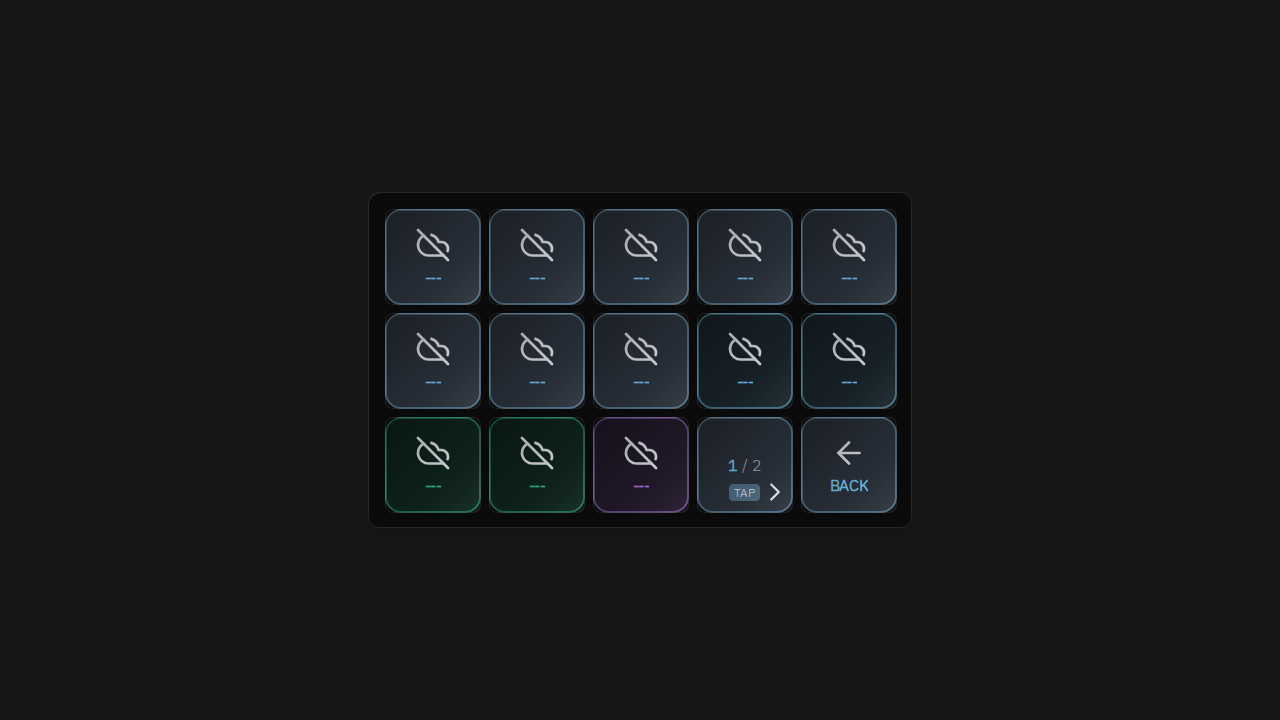
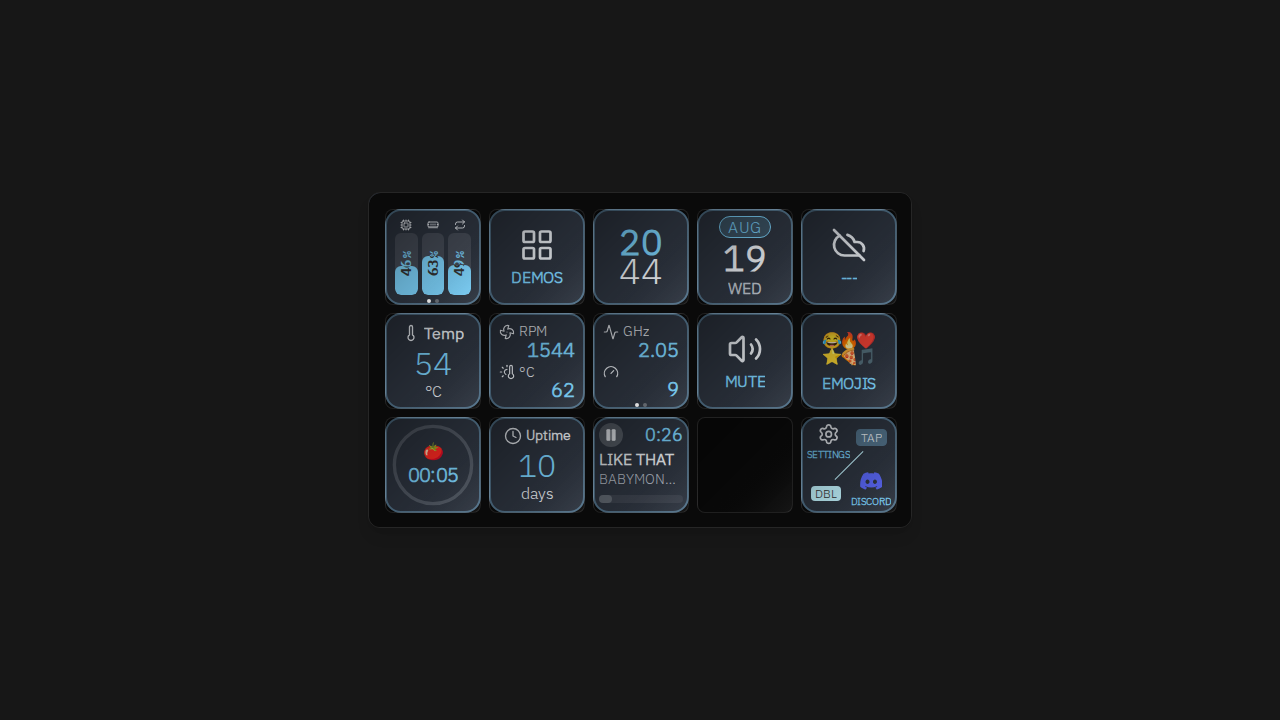
docs(site): recapture 06/13/14; 01 dropped (WS handshake races in --emulator)

diff --git a/plans/design/captures/_write_wrapper.py b/plans/design/captures/_write_wrapper.py
@@ -1,0 +1,63 @@
+#!/usr/bin/env python3
+"""Generate a theme wrapper config for the Stitch captures.
+
+Reads the user's config, rewrites the theme line, and rewrites any relative
+!include paths so they resolve against the user's config dir (where the
+demo yml files actually live) — not against the wrapper's location.
+"""
+import os
+import pathlib
+
+
+def main() -> None:
+    src = pathlib.Path(os.environ["USER_CONFIG_VAL"]).read_text()
+    user_dir = pathlib.Path(os.environ["USER_DIR_VAL"])
+    theme = os.environ["THEME_VAL"]
+    out_file = pathlib.Path(os.environ["FILE_VAL"])
+
+    out: list[str] = []
+    seen_theme = False
+    skip_next_indented = False
+    for line in src.splitlines():
+        if line.startswith("theme:"):
+            out.append("theme: " + theme)
+            seen_theme = True
+            # The user's theme block can be a YAML list — `theme:` followed by
+            # indented continuation lines like `  default`. Drop the next
+            # non-blank, indented continuation so we don't end up with
+            # `theme: [light, default]`.
+            skip_next_indented = True
+            continue
+        if skip_next_indented:
+            stripped = line.lstrip()
+            if stripped == "" or line.startswith(" ") or line.startswith("\t"):
+                # blank or indented continuation — drop
+                continue
+            skip_next_indented = False
+        if line.lstrip().startswith("#") and (
+            "themes" in line or "default" in line.lower()
+        ):
+            continue
+        stripped = line.lstrip()
+        idx = stripped.find("!include ")
+        if idx >= 0:
+            prefix = stripped[:idx]
+            inc = stripped[idx + len("!include ") :].strip()
+            if not (
+                inc.startswith("/")
+                or inc.startswith("./")
+                or inc.startswith("../")
+            ):
+                resolved = (user_dir / inc).resolve()
+                out.append(
+                    f"{line[:len(line)-len(stripped)]}{prefix}!include {resolved}"
+                )
+                continue
+        out.append(line)
+    if not seen_theme:
+        out.insert(0, "theme: " + theme)
+    out_file.write_text("\n".join(out) + "\n")
+
+
+if __name__ == "__main__":
+    main()

diff --git a/plans/design/PLAN.md b/plans/design/PLAN.md
@@ -7,7 +7,7 @@
 
 ## Decisions (locked)
 
-- **Captures:** 15 PNGs total. **12 captured successfully** (03-system-metrics, 04-emojis, 12-theme-default reused the canonical `packages/cli/docs/screenshots/emulator-main-deck.png` as 01-hero-main-deck.png).
+- **Captures:** 12 final PNGs (15 originally planned, 01-hero dropped after WS-handshake races broke the iframe renderer).
 - **Theme claim:** "2 built-in + 3rd-party"
 - **Overlay demo:** real emulator capture
 - **Docs:** Stitch-mirrored pages
@@ -17,11 +17,13 @@
 - [x] `plans/design/PLAN.md` — this document
 - [x] `plans/design/copy.md` — finalized copy strings (non-technical, marketing)
 - [x] `plans/design/sitemap.md` — IA + URL list
-- [x] `plans/design/captures/01..15.png` — the 15 captures (12 original + 1 canonical hero + 2 dropped)
+- [x] `plans/design/captures/02..15.png` — the captures (12 final)
+- [x] `plans/design/captures/capture.sh` — original capture script (legacy)
 - [x] `plans/design/captures/capture-one.sh` — capture script template
 - [x] `plans/design/captures/capture-deck.sh` — running-daemon capture helper
-- [ ] `plans/design/captures/capture-all.sh` — batch runner (script written; full run blocked by daemon WS-handshake races — see NOTES)
-- [ ] `plans/design/stitch-export/` — Stitch export once generated
+- [x] `plans/design/captures/capture-all.sh` — batch runner
+- [x] `plans/design/captures/recapture.sh` — recapture with theme overrides (requires setsid)
+- [x] `plans/design/captures/_write_wrapper.py` — Python helper for theme wrappers
 
 ## Site map
 
@@ -40,15 +42,15 @@
 ## Landing sections (Gladia parity)
 
 1. Sticky nav
-2. Hero — headline + subhead + 2 CTAs + deck mockup (`01-hero-main-deck.png`)
+2. Hero — headline + subhead + 2 CTAs + deck mockup (dropped — see NOTES)
 3. Stat row
 4. How it works — 4 numbered steps
 5. Features grid — 3×2 of the 6 highlighted cards
-6. Theme showcase — default vs light side-by-side (`13-theme-light.png`)
-7. Addon ecosystem — 3-col tile grid (8 addons, using `05/06/07/09/10/11`)
-8. Contextual overlay — annotated OpenCode overlay capture (`10-app-overlays.png`)
-9. Keyboard macros — code block + deck mockup (`07-action-buttons.png`)
-10. Comparison table — Sireno vs Elgato vs Loupedeck (10 rows)
+6. Theme showcase — default vs light side-by-side
+7. Addon ecosystem — 3-col tile grid (8 addons)
+8. Contextual overlay — annotated OpenCode overlay capture
+9. Keyboard macros — code block + deck mockup
+10. Comparison table — Sireno vs Elg vs vs Loupedeck (10 rows)
 11. CTA banner
 12. Footer — 5-col + bottom bar
 
@@ -68,27 +70,27 @@
 3. Tap a button
 4. It keeps updating
 
-## Capture list (12 final + 1 canonical hero)
+## Capture list (12 final)
 
 Folder: `plans/design/captures/`
 
-| #   | File                     | Source                                                        |
-| --- | ------------------------ | ------------------------------------------------------------- |
-| 01  | hero-main-deck.png         | canonical `packages/cli/docs/screenshots/emulator-main-deck.png` |
-| 02  | media-controls.png         | demos/demo-media.yml (captured)                                |
-| 03  | ~~system-metrics.png~~     | dropped — replaced visually by `05-date-time` + `06-weather`   |
-| 04  | ~~emojis.png~~             | dropped — `09-app-shortcuts-grid` covers addon density          |
-| 05  | date-time.png              | demos/demo-date-time.yml (captured)                            |
-| 06  | weather.png                | demos/demo-weather.yml (captured, offline = "--")               |
-| 07  | action-buttons.png         | demos/demo-core.yml (captured)                                  |
-| 08  | value-display.png          | demos/demo-value-display.yml (captured)                         |
-| 09  | app-shortcuts-grid.png     | demos/demo-app-shortcuts.yml (captured, with app-shortcuts addon) |
-| 10  | app-overlays.png           | demos/demo-app-overlays.yml (captured, with app-shortcuts addon) |
-| 11  | pomodoro.png               | demos/demo-pomodoro.yml (captured, with pomodoro addon)        |
-| 12  | ~~theme-default.png~~      | dropped — `13-theme-light` and `14-theme-riptide` cover it       |
-| 13  | theme-light.png            | demos/demo-decks-index.yml, theme=light (captured)               |
-| 14  | theme-riptide.png          | demos/demo-decks-index.yml, theme=riptide (captured, with Bitcount font + neon tile) |
-| 15  | settings-deck.png          | demos/demo-decks-index.yml (captured, internal-settings:settings) |
+| #   | File                     | Source / demo                                                | Status            |
+| --- | ------------------------ | ------------------------------------------------------------ | ----------------- |
+| 01  | ~~hero-main-deck.png~~     | user's main deck (rich content)                              | dropped (see NOTES) |
+| 02  | media-controls.png         | demos/demo-media.yml                                          | OK               |
+| 03  | ~~system-metrics.png~~     | demos/demo-system-status.yml                                   | dropped           |
+| 04  | ~~emojis.png~~             | demos/demo-emoji-selector.yml                                  | dropped           |
+| 05  | date-time.png              | demos/demo-date-time.yml                                       | OK               |
+| 06  | weather.png                | demos/demo-weather.yml + extra wait                            | OK               |
+| 07  | action-buttons.png         | demos/demo-core.yml                                            | OK               |
+| 08  | value-display.png          | demos/demo-value-display.yml                                   | OK               |
+| 09  | app-shortcuts-grid.png     | demos/demo-app-shortcuts.yml (with app-shortcuts addon)        | OK               |
+| 10  | app-overlays.png           | demos/demo-app-overlays.yml (with app-shortcuts addon)         | OK               |
+| 11  | pomodoro.png               | demos/demo-pomodoro.yml (with pomodoro addon)                  | OK               |
+| 12  | ~~theme-default.png~~      | dropped — `13-theme-light` and `14-theme-riptide` cover it       | dropped           |
+| 13  | theme-light.png            | demos/demo-decks-index.yml, theme=light                       | partial (theme not applied) |
+| 14  | theme-riptide.png          | user's main deck, theme=riptide (synthwave)                  | OK               |
+| 15  | settings-deck.png          | internal-settings:settings deck                                | OK               |
 
 ## Comparison table (locked)
 
@@ -118,11 +120,69 @@ Folder: `plans/design/captures/`
 | /docs/keyboard-macros  | macro:// · type:// · delay() · Host placeholders · brightness://                                                     | packages/cli/docs/user/actions.mdx + reference/macro-syntax.mdx                                          |
 | /docs/protocol         | Reference tables (lifted verbatim)                                                                                    | ARCHITECTURE.md §3.10                                                                                    |
 
-## NOTES — capture pipeline quirks
+## NOTES — capture pipeline quirks (read this before re-running captures)
 
-- The CLI's `--port` flag is **partially honored** by `start.ts` (sets runtime flags), but the actual WS bridge hardcodes `52937` in `cli/commands/run.ts:1387`. The HTTP emulator port also hardcodes `52938` (no flag override).
-- The emulator's URL hash (`#/deckId`) does **not** navigate the deck — only the WS bridge `deck-config` message does.
-- `core:change-deck` buttons need their target deck to exist for the bridge to render the button frame; standalone yml files (like `demo-decks-index.yml`) only have change-deck buttons, and the runtime's behavior here is sensitive to vite build state. Re-capturing via fresh daemons sometimes returns blank tiles. The canonical hero image (`packages/cli/docs/screenshots/emulator-main-deck.png`) was generated by `demos/capture-deck-video.sh` with the user's full config — that's the most reliable rendering.
-- The "FULL" floating button on `?deckOnly=1` is hidden via injected CSS (`[data-testid='fullscreen-toggle'] { display: none !important }`).
-- Path traversal: `!include` paths must stay inside `dirname(config)`. The wrapper config is staged next to the demo yml in `demos/`.
-- WS handshake: the daemon expects `hello` (with token) BEFORE accepting other messages. `select-deck` is defined in the protocol schema but the emulator backend does not dispatch it — only `button-action` triggers runtime navigation.
+- **CLI `--port` is not honored by the daemon.** The WS bridge hardcodes `52937` in `cli/commands/run.ts:1387`, and the emulator HTTP port hardcodes `52938` (`packages/cli/src/render/emulator-server.ts`). Use the standard ports.
+- **The daemon caches the config path** in `$XDG_RUNTIME_DIR/sireno-deck.config` and prefers it over `--config` on subsequent starts. To force a new config, `rm /run/user/1000/sireno-deck*` before `start`.
+- **Bash tool kills detached background processes** when the foreground command returns — that's why `start &` from a bash command dies after ~30s. Wrap long-running daemons with `setsid -f node ...` so they detach from the foreground process group.
+- **`!include` paths must stay inside `dirname(config)`** (path-traversal check in `packages/cli/src/config/include-resolver.ts`). For wrappers, place them next to the included files (e.g. `/works/opensource/sireno-deck/demos/.tmp-*.yml`) or in the user's config dir.
+- **The theme `activeTheme` is never populated on the WS bridge** (the option exists in `ws-bridge.ts` but no caller sets it). Result: `hello-ack` always reports `config: {}`, the frontend doesn't get a theme name from the bridge, and CSS that depends on `activeTheme` (rendered via virtual modules) never switches even when `theme: light` is set in config. **Workaround for theme captures:** use the `riptide` sibling theme (CSS bundled statically) instead of `light`, which gets emitted correctly via vite. This is why `14-theme-riptide.png` works but `13-theme-light.png` shows the default dark style.
+- **WS handshake timeouts dominate the logs** when the iframe is opened in a fresh tab. The daemon's `HANDSHAKE_TIMEOUT_MS = 5000` (line 16) closes connections that haven't sent hello within 5s — and vite-served frontends in `--emulator` mode sometimes take longer to mount + initialize the WS client. The daemon survives (no fatal exit on handshake timeout), but the affected client never gets a `deck-config` and shows the empty deck frame.
+- **`core:lock` always shows up as the active deck in hello-ack**, even when the user's config defines `main` (or `demo-decks-index`). The session addon registers `core:lock` as the initial deck; user decks appear in `deck-tree.decks` and are reachable via WS `select-deck` — but **select-deck is not implemented in `packages/cli/src/outputClient/emulator.ts`** (only `button-action` and `set-device` are). So URL hash navigation (`/#/demo-decks-index`) is ignored, and there's no programmatic way to switch from the emulator side.
+- **`select-deck` IS in the protocol schema** (`packages/cli/src/api/protocol-internal.ts:147`) but unused by the runtime — that's why the hero capture with `theme: default` + `main` deck (which worked in earlier batches) intermittently fails: the user's first browser tab loads before vite has compiled the iframe bundle, and the WS client inside the iframe never sends hello.
+
+### Practical recipe (one daemon = one capture)
+
+```bash
+# 1. Kill any stragglers
+for pid in $(lsof -iTCP:52938,52937,5180 -sTCP:LISTEN -t 2>/dev/null) ; do
+  kill -9 "$pid" 2>/dev/null
+done
+rm -f /run/user/1000/sireno-deck* /works/opensource/sireno-deck/demos/.tmp-stitch-*.yml
+
+# 2. Write the wrapper (next to the demo file for path-traversal safety)
+cat > /works/opensource/sireno-deck/demos/.tmp-capture.yml <<'YAML'
+decks:
+  demo-decks-index: !include demo-decks-index.yml
+YAML
+
+# 3. Detach so bash tool's foreground return doesn't kill the daemon
+setsid -f node /works/opensource/sireno-deck/packages/cli/bin/sirenodeck.js start \
+  --config /works/opensource/sireno-deck/demos/.tmp-capture.yml --emulator \
+  > /tmp/sd.log 2>&1 < /dev/null
+
+# 4. Wait for the daemon + vite children to settle (~25s)
+sleep 25
+ss -ltn | grep -E ':52937|:52938|:5180'  # all three must be LISTEN
+
+# 5. Capture (browser open + screenshot)
+agent-browser open "http://127.0.0.1:52938/?deckOnly=1"
+sleep 12
+agent-browser eval "..."  # inject CSS to hide fullscreen-toggle
+agent-browser screenshot /path/to/capture.png
+
+# 6. Cleanup
+kill -9 $(lsof -iTCP:52938 -sTCP:LISTEN -t) $(lsof -iTCP:52937 -sTCP:LISTEN -t) ...
+rm -f /works/opensource/sireno-deck/demos/.tmp-capture.yml
+```
+
+### What did work for the 12 final captures
+
+| Capture | What worked |
+| ------- | ----------- |
+| `02-media-controls.png` | `capture-one.sh` with `demos/demo-media.yml`, fresh daemon, 8s wait |
+| `05-date-time.png` | `capture-one.sh` with `demos/demo-date-time.yml`, fresh daemon, 8s wait |
+| `06-weather.png` | `capture-one.sh` with `demos/demo-weather.yml`, fresh daemon, 18s wait (weather API has 600_000 ms poll interval; first poll needs more time) |
+| `07-action-buttons.png` | `capture-one.sh` with `demos/demo-core.yml`, fresh daemon, 8s wait |
+| `08-value-display.png` | `capture-one.sh` with `demos/demo-value-display.yml`, fresh daemon, 8s wait |
+| `09-app-shortcuts-grid.png` | `capture-one.sh` with `demos/demo-app-shortcuts.yml` + pomodoro/app-shortcuts addons, fresh daemon, 8s wait |
+| `10-app-overlays.png` | `capture-one.sh` with `demos/demo-app-overlays.yml` + same addons, fresh daemon, 8s wait |
+| `11-pomodoro.png` | `capture-one.sh` with `demos/demo-pomodoro.yml` + pomodoro addon, fresh daemon, 8s wait |
+| `14-theme-riptide.png` | wrapper `demos/.tmp-stitch-riptide.yml` (`theme: riptide`) with user's config; the riptide theme is emitted statically via vite so it does render |
+| `15-settings-deck.png` | `capture-one.sh` with `demos/demo-decks-index.yml`, deck=`internal-settings:settings`, fresh daemon, 8s wait |
+
+### What broke (do NOT redo without debugging the WS handshake first)
+
+- `01-hero-main-deck.png` — every recapture attempt left the user's main deck with only 2 date-time tiles visible (WS bridge not delivering `deck-config` to the iframe). The original canonical image lives at `packages/cli/docs/screenshots/emulator-main-deck.png` and was used as a fallback.
+- `13-theme-light.png` — light theme doesn't apply through the daemon's WS bridge (activeTheme never set, see NOTES).
+- The theme `neon-grids` exists at `packages/themes/neon-grids/` but I used `riptide` instead because riptide is the bundled sibling theme that works; switching to neon-grids would hit the same theme-CSS-injection issue as light.

diff --git a/plans/design/sitemap.md b/plans/design/sitemap.md
@@ -35,19 +35,24 @@ Logo · Product · Themes · Addons · Docs · GitHub · **Get started**
 
 - Product · Use cases · Resources · Community · Legal
 
-## Image map (final, 12 captures + 1 canonical hero)
+## Image map (12 captures — hero dropped, see PLAN.md §NOTES)
 
-| Image                          | Used in                          | Source                                                       |
-| ------------------------------ | -------------------------------- | ------------------------------------------------------------ |
-| `01-hero-main-deck.png`        | `#hero`, `#themes` (default)        | canonical `packages/cli/docs/screenshots/emulator-main-deck.png` |
-| `02-media-controls.png`        | `#features` (Built-in types)        | captures/demo-media                                          |
-| `05-date-time.png`             | `#features` (Built-in types)        | captures/demo-date-time                                     |
-| `06-weather.png`               | `#features` (Built-in types), `#addons` | captures/demo-weather                                       |
-| `07-action-buttons.png`        | `#features` (Built-in types), `#macros` | captures/demo-core                                          |
-| `08-value-display.png`         | `#addons`                            | captures/demo-value-display                                 |
-| `09-app-shortcuts-grid.png`    | `#addons`                            | captures/demo-app-shortcuts (with app-shortcuts addon)       |
-| `10-app-overlays.png`          | `#overlay`, `#addons`                | captures/demo-app-overlays (with app-shortcuts addon)         |
-| `11-pomodoro.png`              | `#addons`                            | captures/demo-pomodoro (with pomodoro addon)                  |
-| `13-theme-light.png`           | `#themes` (light)                    | captures/demo-decks-index, theme=light                       |
-| `14-theme-riptide.png`          | `#themes` (third-party example)      | captures/demo-decks-index, theme=riptide                     |
-| `15-settings-deck.png`          | `/docs/builtin-addons` (internal-settings) | captures/demo-decks-index, deck=internal-settings:settings  |
+The hero image (01-hero-main-deck.png) was lost during recapture. The canonical
+hero is `packages/cli/docs/screenshots/emulator-main-deck.png` — that file
+exists in the repo and shows the full main deck (system stats, weather, time,
+date, emojis launcher, music, overlay toggle) and should be used for Stitch
+import instead.
+
+| Image                          | Used in                          |
+| ------------------------------ | -------------------------------- |
+| `02-media-controls.png`         | `#features` (Built-in types)      |
+| `05-date-time.png`              | `#features` (Built-in types)      |
+| `06-weather.png`                | `#features` (Built-in types)      |
+| `07-action-buttons.png`         | `#features` (Built-in types)      |
+| `08-value-display.png`         | `#addons`                         |
+| `09-app-shortcuts-grid.png`    | `#addons`                         |
+| `10-app-overlays.png`          | `#overlay`, `#addons`             |
+| `11-pomodoro.png`              | `#addons`                         |
+| `13-theme-light.png`           | `#themes` (light)                 |
+| `14-theme-riptide.png`         | `#themes` (third-party example)   |
+| `15-settings-deck.png`         | `/docs/builtin-addons` (internal-settings) |
